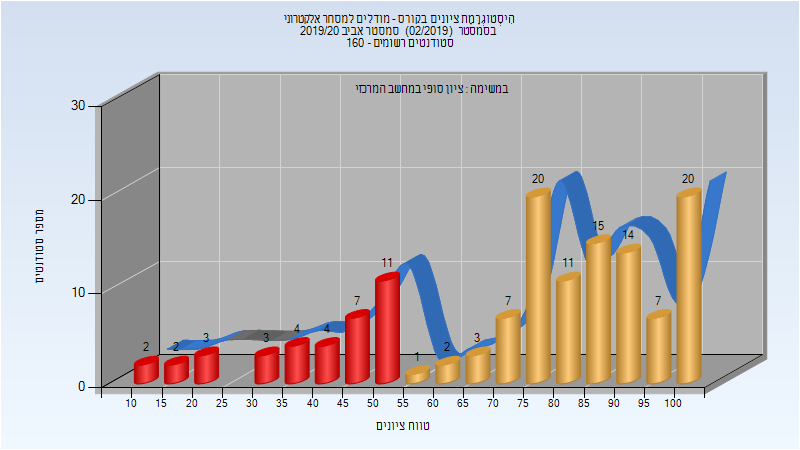
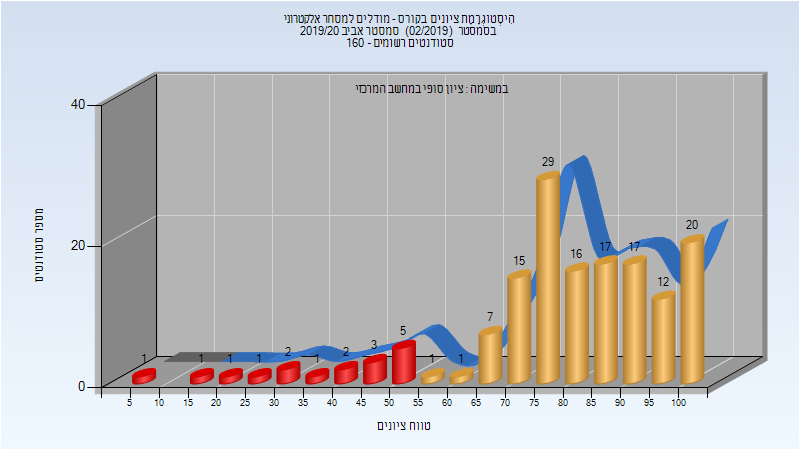
Deploy michael-maltsev/technion-histograms to github.com/michael-maltsev/technion-histograms.git:gh-pages

diff --git a/096211/index.html b/096211/index.html
@@ -351,6 +351,32 @@
 </tr>
 </tbody>
 </table>
+<h3>סופי מועד ב'</h3>
+<p><img src="201902/Final_B.png" alt="201902 Final_B" /></p>
+<table>
+<thead>
+<tr>
+<th>סטודנטים</th>
+<th>עברו/נכשלו</th>
+<th>אחוז עוברים</th>
+<th>ציון מינימלי</th>
+<th>ציון מקסימלי</th>
+<th>ממוצע</th>
+<th>חציון</th>
+</tr>
+</thead>
+<tbody>
+<tr>
+<td>55</td>
+<td>40/15</td>
+<td>73</td>
+<td>8</td>
+<td>99</td>
+<td>67.6</td>
+<td>71</td>
+</tr>
+</tbody>
+</table>
 <h3>סופי</h3>
 <p><img src="201902/Finals.png" alt="201902 Finals" /></p>
 <table>
@@ -367,13 +393,13 @@
 </thead>
 <tbody>
 <tr>
-<td>136</td>
-<td>100/36</td>
-<td>74</td>
-<td>13</td>
+<td>152</td>
+<td>135/17</td>
+<td>89</td>
+<td>8</td>
 <td>100</td>
-<td>73.897</td>
-<td>79</td>
+<td>79.526</td>
+<td>82</td>
 </tr>
 </tbody>
 </table>

diff --git a/096211/README.md b/096211/README.md
@@ -105,11 +105,19 @@
 | ---- | ---- | ---- | ---- | ---- | ---- | ---- |
 | 136 | 100/36 | 74 | 13 | 100 | 73.772 | 79 |
 
+### סופי מועד ב'
+
+![201902 Final_B](201902/Final_B.png)
+
+| סטודנטים | עברו/נכשלו | אחוז עוברים | ציון מינימלי | ציון מקסימלי | ממוצע | חציון |
+| ---- | ---- | ---- | ---- | ---- | ---- | ---- |
+| 55 | 40/15 | 73 | 8 | 99 | 67.6 | 71 |
+
 ### סופי
 
 ![201902 Finals](201902/Finals.png)
 
 | סטודנטים | עברו/נכשלו | אחוז עוברים | ציון מינימלי | ציון מקסימלי | ממוצע | חציון |
 | ---- | ---- | ---- | ---- | ---- | ---- | ---- |
-| 136 | 100/36 | 74 | 13 | 100 | 73.897 | 79 |
+| 152 | 135/17 | 89 | 8 | 100 | 79.526 | 82 |
 
